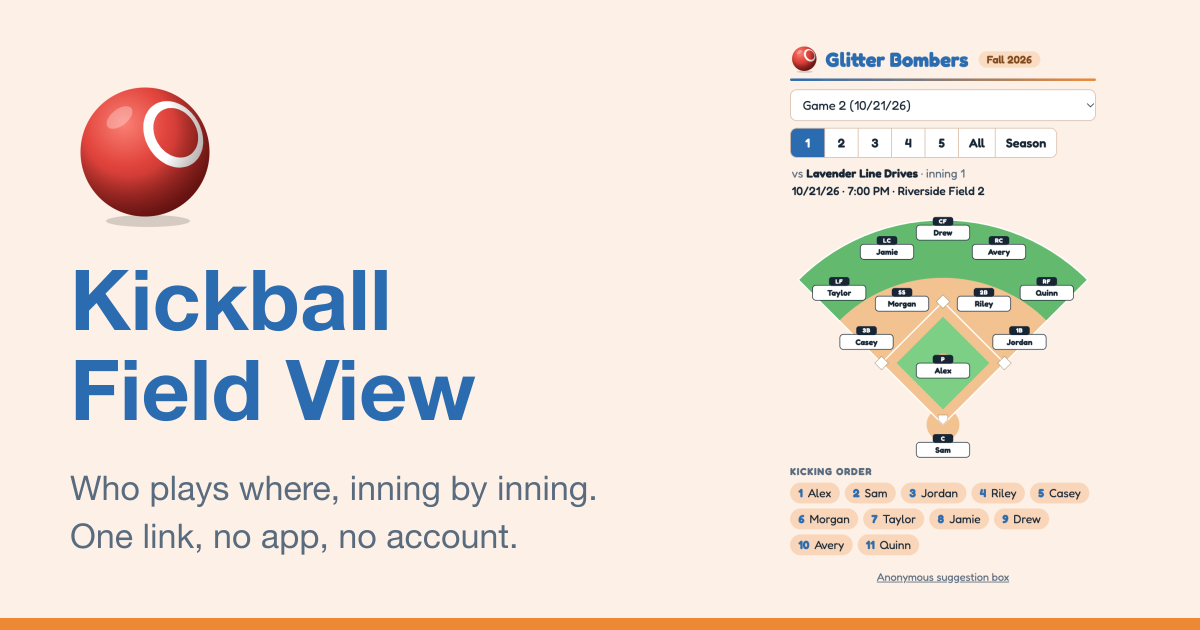
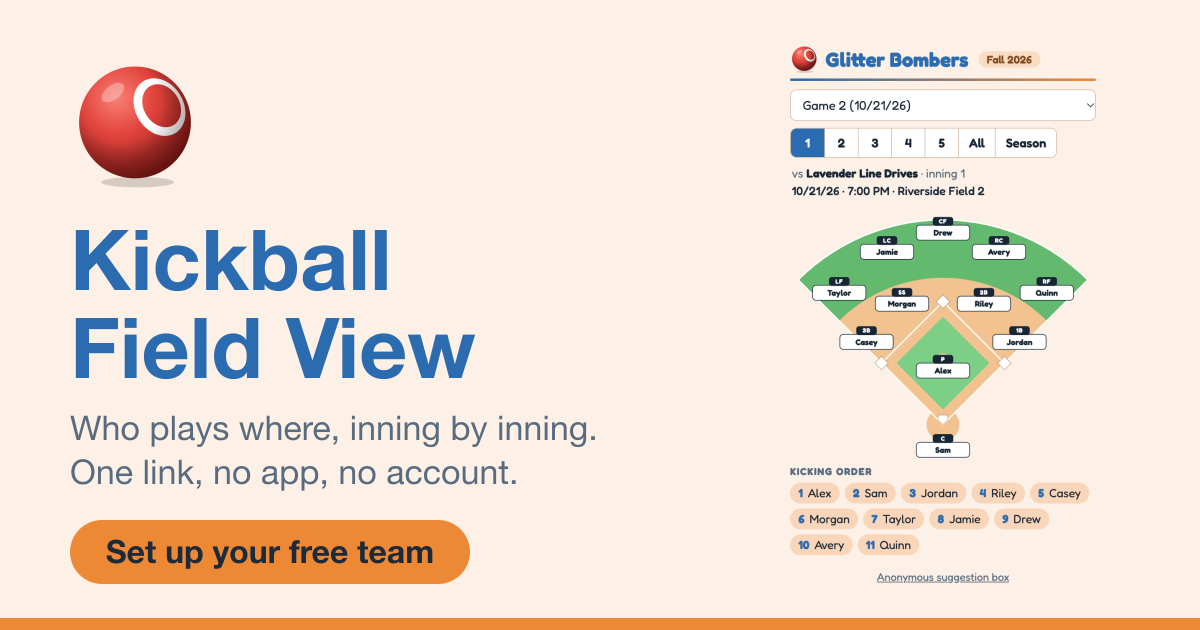
Shorten the share preview text and add a call to action to the image

Changed region(s): [[0.0617, 0.0905, 0.4933, 0.9349]]

diff --git a/site/index.html b/site/index.html
@@ -3,7 +3,7 @@
 <head>
 <meta charset="utf-8">
 <meta name="viewport" content="width=device-width, initial-scale=1">
-<title>Kickball Field View</title>
+<title>Kickball Field View: lineups for your kickball team</title>
 <meta name="description" content="Your kickball lineup, drawn on a field. Players open one link on their phone to see who plays where in every inning and the kicking order.">
 <link rel="icon" id="favicon" href="icons/kickball.svg" type="image/svg+xml">
 <link rel="apple-touch-icon" href="icons/apple-touch-icon.png">
@@ -11,8 +11,8 @@
 <meta name="theme-color" id="theme-color" content="#2b6baf">
 <meta property="og:type" content="website">
 <meta property="og:site_name" content="Kickball Field View">
-<meta property="og:title" content="Kickball Field View">
-<meta property="og:description" content="Your kickball lineup, drawn on a field. Players open one link on their phone to see who plays where in every inning and the kicking order.">
+<meta property="og:title" content="Kickball Field View: lineups for your kickball team">
+<meta property="og:description" content="Your kickball lineup, drawn on a field. See who plays where in every inning, plus the kicking order.">
 <meta property="og:url" content="https://duncan-wood.github.io/kickball/">
 <meta property="og:image" content="https://duncan-wood.github.io/kickball/images/og-image.png">
 <meta property="og:image:width" content="1200">
